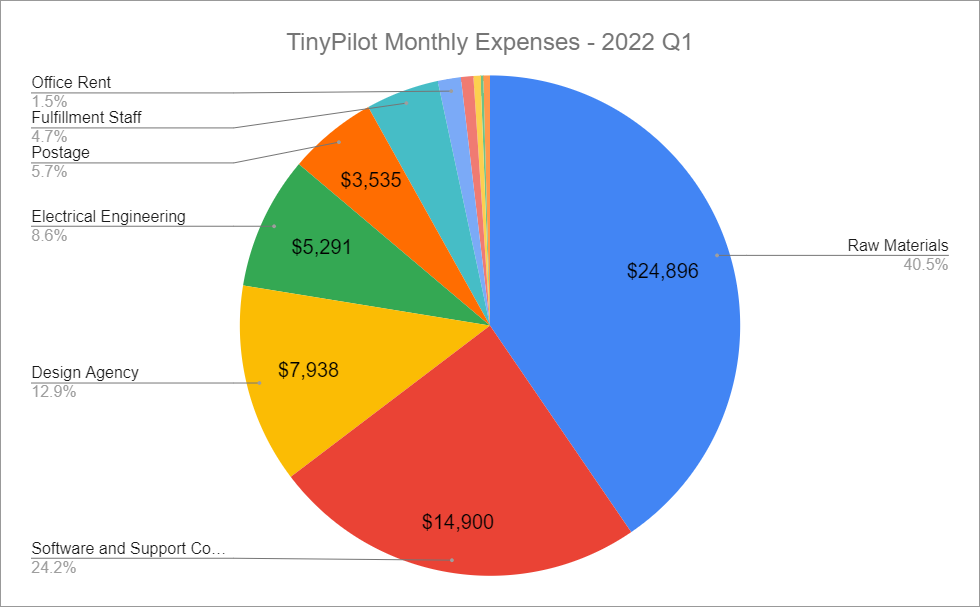
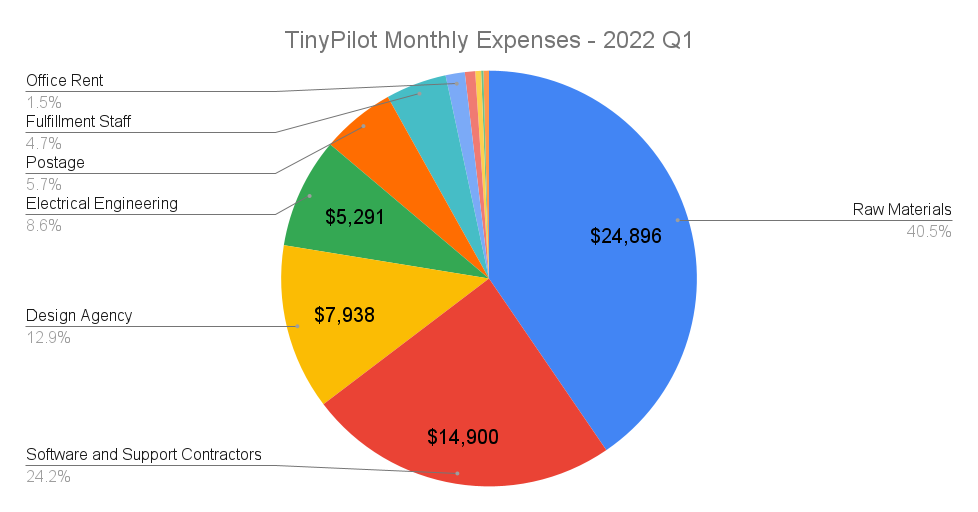
work in progress

diff --git a/content/retrospectives/2022/05/index.md b/content/retrospectives/2022/05/index.md
@@ -1,12 +1,16 @@
 ---
 title: "TinyPilot: Month 22"
 date: 2022-05-09T12:09:29-04:00
-description: TODO - One-line summary
+description: Where is all of my money going?
+images:
+  - /retrospectives/2022/05/expenses-pie.png
 ---
 
 ## Highlights
 
--
+- TinyPilot generates $58k/month in revenue yet somehow still loses money.
+- It's more important than I thought to have low-latency insight into developers' hours.
+- I'm trying paid advertising again for the first time in almost two years.
 
 ## Goal Grades
 
@@ -14,26 +18,26 @@ At the start of each month, I declare what I'd like to accomplish. Here's how I 
 
 ### Publish a blog post and video about building a homelab NAS server with TinyPilot
 
-- **Result**: I'm nearly done but I haven't published yet
+- **Result**: I'm nearly done, but I haven't published yet.
 - **Grade**: D
 
-The blog post is turning out to be much longer than I expected. There are a lot of details about my thought process in choosing parts that I want to include, and I didn't realize how long that would take.
+The blog post is turning out to be much longer than I expected. There are so many details I want to include about my thought process in choosing parts, and I didn't realize how long that would take. I'm hoping to wrap up in the next couple weeks.
 
 ### Complete the TinyPilot website redesign
 
-- **Result**: There were barely any design changes to the website
+- **Result**: There were barely any design changes to the website.
 - **Grade**: F
 
-We've now completed month seven of what was supposed to be a six-week redesign. Once again, there was a one-month delay in implementing any design changes.
+We've now completed month seven of what was supposed to be a six-week redesign. And again, shamefully, we barely made any user-visible changes to the website.
 
 I've canceled the contract with the design agency, so they're wrapping up their work this month. I'm hoping they can complete the redesign in the remaining weeks. If they can't, I'm hiring another developer to finish it up because this has been dragging on forever.
 
-### Publish a release of TinyPilot Pro with opt-in experimental support for H264 video over WebRTC
+### Publish a release of TinyPilot Pro with experimental support for H264 video over WebRTC
 
-- **Result**: Shared an early build with a large customer but haven't cut a public release yet
+- **Result**: Shared an early build with a large customer but haven't cut a public release yet.
 - **Grade**: C
 
-In a month of, "took a little longer than I expected," this also took a bit longer. The release is code complete, but I still have to wrap up some last manual tests before releasing the build to customers.
+The month's theme is, "this took a little longer than I expected." The release is code complete, but I still have to wrap up some last manual tests before publishing the build to customers.
 
 ## [TinyPilot](https://tinypilotkvm.com/?ref=mtlynch.io) stats
 
@@ -51,13 +55,17 @@ In a month of, "took a little longer than I expected," this also took a bit long
 
 \* April profit is just a rough estimate based on the delta in my checking account until I do monthly bookkeeping.
 
+April was a rough month for TinyPilot. Sales dropped to their lowest levels in six months, both in the US and with our EU distributor. Usually about $5-10k in revenue each month comes from a handful of large orders, but we didn't see any of those in April.
+
+It's unclear if April was just an unlucky month, people are spending less due to signals of a recession, or if new offerings from TinyPilot's competitors are eating into sales.
+
 ## Where is all my money going?
 
-In my last retrospective, I reported that I was averaging a profit of $16k in the first quarter of 2022. When I was doing my bookkeeping, I realized that the number was incorrect, and I actually lost $10,153 in the first quarter. The numbers seem surprising to me since I had $XXk/month in revenue, so how can I be spending more than that?
+In my last retrospective, I reported that I was averaging a profit of $5.3k in the first quarter of 2022. When I was doing my bookkeeping, I realized that my blog numbers were out of sync with my bookkeeping, and I was actually _losing_ $3k per month.
 
-In the first quarter, my revenue was $175k. I sell each TinyPilot device for a profit of $250-325, so how can I possibly losing money?
+The numbers surprised me since I had $58k/month in revenue, and I sell each TinyPilot device for a profit of $250-325, so how can I possibly losing money?
 
-Here are my average monthly expenses over the course of 2022 Q1.
+To find out, I took a closer look at my monthly expenses for 2022 Q1.
 
 {{<img src="expenses-pie.png" maxWidth="800px" hasBorder="true">}}
 
@@ -76,67 +84,75 @@ Here are my average monthly expenses over the course of 2022 Q1.
 | Everything Else                  | $265.34        |
 | **Total**                        | **$61,542.47** |
 
-\* My actual rent is $550/month, but rent expenses appeared higher in Q1 just through weird timing of my landlord cashing my rent checks.
+\* My actual rent is $550/month, but rent expenses appeared higher in Q1 because my landlord cashed checks at weird times.
 
-My biggest expense was raw materials, which is even higher than usual because I had to stockpile parts for the next 18-36 months to protect TinyPilot from supply shortages. About $6.2k/month was for parts that will last me a few years, so once I get through stockpiling, monthly costs will be significantly lower.
+My biggest expense was raw materials, which is even higher than usual because I had to stockpile parts for the next 18-36 months to protect TinyPilot from supply shortages. About $6.2k/month was for parts that will last me a few years, so once I get through stockpiling, monthly supply costs will be significantly lower.
 
-The design agency cost almost $8k/month, and that expense is fortunately going away. I've paid them their last check, and my contract with them terminates at the end of May. I might hire a developer to maintain the website, but that would be fewer hours at a lower rate, so more like $1-2k/month.
+The next largest expense was software and support, at $14.9k. That's a little higher than usual because I hired an external consultant on a short-term basis to help us integrate a new video technology. The norm is closer to $12k, which is still quite high.
+
+Charging for [TinyPilot Pro](https://tinypilotkvm.com/product/tinypilot-pro) was supposed to fund development and support costs, but we haven't yet implemented license checks or reminders. About 1/3 of TinyPilot customers have expired TinyPilot Pro licenses and don't realize it, but they continue receiving free support and updates. My top software priority for the next few months is to overhaul TinyPilot's update flow so that only users with paid, active licenses can continue receiving the latest TinyPilot Pro version. I also want to make it easier for people to sign up for recurring billing so that they can just pay $80/year for their license and not deal with re-buying when it expires.
+
+The design agency cost almost $8k/month, but that expense is fortunately going away. I've paid them their last check, and my contract with them terminates at the end of May. I might hire a developer to maintain the website, but that would be fewer hours at a lower rate, so more like $1-2k/month.
 
 Next, we have $5.3k/month in electrical engineering. These costs will stay high for the next 2-3 months as my electrical engineering partner redesigns the TinyPilot Voyager 2 for manufacturability. Once the design work is complete, I expect costs to drop to something like $2k/month, as maintenance will be significantly cheaper than design work.
 
 The expenses break down into three general categories:
 
-- Scale with sales: Raw materials and postage are a pure function of sales.
 - Ongoing costs: Recurring costs like rent and payroll that are independent of sales.
+- Materials and postage: These are almost a pure function of sales, but they should only ever grow about 1/3 as fast as revenue.
 - Temporary expenses: One-time expenses like redesigning hardware or stockpiling components.
 
-I have to make enough profit from sales to cover my ongoing costs with room leftover for temporary expenses for growth. So if I estimate that electrical engineering will go down to $2k per month, my ongoing costs are around $22k per month. If raw materials are about 30% of my revenue, that means that I need to hit $31.5k in sales to keep the lights on ($31.5k in sales translates to $22k in profit, deducting cost of materials).
+I have to make enough profit from sales to cover my ongoing costs with room for growth expenses. If I estimate that software will go down to $12k per month and electrical engineering will go down to $2k, my ongoing costs are around $19k per month. If raw materials are about 30% of my revenue, that means that I need to hit $27k in sales to keep the lights on ($27k in sales translates to $22k in profit, deducting cost of materials).
 
-Hitting $31.5k/month in sales feels pretty doable, as I've been well above that for six months. Still, my sales are trending downward and signs are pointing to a recession, so I'm hoping I can continue clearing the breakeven point with enough room for growth and one-time costs.
+Hitting $27k/month in sales feels pretty doable, as I've been well above that for six months. Still, my sales are trending downward and signs are pointing to a recession, so I'm hoping I can continue clearing the breakeven point with enough room for growth and one-time costs.
 
 ## The importance of low-latency hours reporting
 
-I talked in my last update about the [many things I wish I knew about working with a design agency](/retrospectives/2022/04/#what-i-wish-i-knew-about-working-with-a-design-agency). In April, I realized there was one more thing to add to the list: hours reporting is critical.
+My last update enumerated the [many things I wish I'd known about working with a design agency](/retrospectives/2022/04/#what-i-wish-i-knew-about-working-with-a-design-agency). In April, I discovered one more thing to add to the list: hours reporting is critical.
 
-At the end of March, the agency had a suggestion for the redesign: a new Bootstrap theme. The TinyPilot uses the Bootstrap CSS framework with a free, third-party theme from Bootswatch. They pointed out that we had an unnecessary layer of overrides. Bootstrap sets a default style, our third-party theme was overriding those defaults, and then we were overriding those defaults again. The cleaner solution would be to replace the third-party theme with our own.
+At the end of March, the agency had a suggestion for the redesign: a new Bootstrap theme. The TinyPilot website uses the Bootstrap CSS framework. We're still using the same free, third-party theme I got from [Bootswatch](https://bootswatch.com/) when I created the first version of the site. On top of Bootstrap and a third-party theme, we also have our own custom styles, often on a per-page or per-component basis.
 
-It sounded sensible to me, and the agency estimated that it would only be a few days of work. It would probably pay for itself because otherwise the rest of the redesign would be fighting with two different CSS styles.
+The agency pointed out that this architecture was convoluted, and we should replace the third-party theme and per-page styles with our own site-wide Bootstrap theme. Their recommendation sounded sensible to me, and the agency estimated that it would only be a few days of work. It would probably pay for itself because otherwise the rest of the redesign would be fighting with three different layers of CSS styling.
 
-The theme work ended up taking five weeks for a total cost of $6,152. Here the result in terms of what the user can see:
+The theme work ended up taking five weeks for a total cost of $6,152. Here are the results in terms of what the user can see:
 
 {{<gallery caption="Before (left) and after (right) $6.1k of web development">}}
 {{<img src="before-refactoring.png" alt="Screenshot of TinyPilot website before changes" hasBorder="true" maxWidth="250px">}}
 {{<img src="after-refactoring.png" alt="Screenshot of TinyPilot website after changes, where the font and colors are slightly different" hasBorder="true" maxWidth="250px">}}
 {{</gallery>}}
 
-So, on this redesign that I've been desperate to finish for months, I allowed a five week delay on a change that barely had an impact on the user experience. How did I let this happen?
+Long-term, this refactoring is helpful, but I wouldn't have chosen to do it right now. The redesign is already six months late and 5x over budget. I'd rather have a pretty website while we work on fixing ugly code than a dumpy-looking website with beautifully-factored code.
 
-I was trying to figure out why this situation never arises with TinyPilot's regular devs, but it keeps happening with the design agency. I realized one critical difference is that I have low-latency insight into how TinyPilot's developers spend their time. At the end of their working session, TinyPilot devs record their hours with a short note saying what they were working on.
+So, how did I let this happen? TinyPilot's regular devs rarely get lost in the weeds for weeks on something I didn't want, but it keeps happening with the design agency.
+
+One critical difference is that TinyPilot's developers give me low-latency insight into how they spend their time. At the end of each working session, they record their hours with a short note saying what they were working on.
 
 {{<img src="work-timing.png" alt="Screenshot of TinyPilot website before changes" hasBorder="true" caption="TinyPilot's in-house developers report their hours as they go.">}}
 
-If I'm expecting work from them and I don't see it, I check their hours. If I see that they've spent eight hours on a task that I expected to take two, it means I either underestimated the difficulty or explained the task poorly. In either case, I check in with the dev, and we decide whether to continue or course-correct.
+If I'm expecting work from them, I check their hours. If I see that they've spent 14 hours on a task that I expected to take two, it means I either underestimated the difficulty or explained the task poorly. In either case, I check in with the dev, and we decide whether to continue or course-correct.
 
-With the design agency, there was a much slower feedback loop. They sent me an update on the 15th of the month telling me only the total number of hours they've worked. At the end of the month, they sent me a full report of where the hours went, but by then it's too late.
+With the design agency, there's a much slower feedback loop. They send me an update on the 15th of the month telling me only the total number of hours they've worked. At the end of the month, they send me a full report of where the hours went, but by then it's too late.
 
 {{<gallery caption="The design agency only reports hours twice per month &mdash; once at the midpoint with an opaque hours total (left) and once at the end with a more granular breakdown (right).">}}
 {{<img src="mid-month-report.png" alt="Screenshot of TinyPilot website before changes" hasBorder="true" maxWidth="400px">}}
 {{<img src="monthly-report.png" alt="Screenshot of TinyPilot website after changes, where the font and colors are slightly different" hasBorder="true" maxWidth="500px">}}
 {{</gallery>}}
 
-The other issue with the design agency is that they commit to hours only on a monthly basis, not on a weekly basis. In February, they did no dev work for the first three weeks and then squeezed everything in in the last ten days. This compounded the poor feedback loop, since I couldn't distinguish between a task that was taking a long time and a task that they hadn't started yet.
+The other issue with the design agency is that they commit to hours only on a monthly basis, not on a weekly basis. In February, they did no dev work for the first three weeks and then squeezed all of their work into the last ten days. This compounded the poor feedback loop, since I couldn't distinguish between a task that was taking too long and a task that they hadn't started yet.
 
-If I work with a design agency in the future, I'll insist on using a tool that lets us share a view of the hours billed as they happen. The information is too valuable to hoard for weeks.
+If I work with a design agency in the future, I'll insist on using a tool that lets us share a view of billable hours as they happen. The information is too valuable to delay for weeks, as it prevents me from identifying mismatches in expectations.
 
 ## Dipping my toe in paid search advertising
 
-I [tried paid ads](/retrospectives/2020/11/) early in TinyPilot's life, but I didn't have a good way of measuring their performance. I have a weirdo custom tech stack for my sales site, and it makes it hard to integrate with normal conversion tracking tools on Shopify or Google Analytics. Even when conversion tracking seemed to be working, it was only registering about 30% of sales, so either I messed something up or 70% of my users have ad-block enabled.
+I [tried running paid ads](/retrospectives/2020/11/) early in TinyPilot's life, but I didn't have a good way of measuring their performance. I have a weirdo custom stack for my sales site, and it makes it hard to integrate with normal conversion tracking tools on Shopify or Google Analytics. Even when conversion tracking seemed to be working, it was only registering about 30% of sales, so either I messed something up or 70% of my users have ad-block enabled.
 
-When I experimented with affiliate advertisers, I ended up accidentally solving the conversion tracking problem. When a customer visits through an affiliate link, the TinyPilot stores the referral ID in the browser's local storage. When the customer checks out, we save the referral ID as an attribute of the order. That way, we don't depend on Google Analytics, and we don't have to fight with ad-blockers.
+When I experimented with affiliate advertisers, I ended up accidentally solving the conversion tracking problem. When a customer visits through an affiliate link, the TinyPilot website stores the affiliate ID in the browser's local storage. When the customer checks out, we save the affiliate ID as an attribute of the order. That way, we don't depend on Google Analytics, and we don't have to fight with ad-blockers.
 
-I revisited paid advertising by running ads on Google and Bing. Google ads are performing much better than I expected, and Bing ads are bombing.
+I realized I could use the same solution to track paid ads. I can just treat the referral information in an ad URL as if it were an affiliate ID. With this, I revisited paid advertising by running ads on Google and Bing.
 
 {{<img src="mobile-gs-copy.png" hasBorder="true" alt="Google ad: TinyPilot KVM over IP | Easy Remote Access | Open-Source, PoE, HTML5 TinyPilot is a simple, modern KVM over IP device with PoE. No software installation or Java plugins. Setup takes 5 minutes." caption="My first Google search ad.">}}
+
+Google ads are exceeding my expectations, and Bing ads are bombing.
 
 | Metric                     | Google    | Bing      |
 | -------------------------- | --------- | --------- |
@@ -148,7 +164,7 @@ I revisited paid advertising by running ads on Google and Bing. Google ads are p
 | Revenue from conversions   | $4,202.88 | $789.97   |
 | Revenue on ad spend (ROAS) | 2.45      | 0.78      |
 
-Google is beating Bing on almost every metric. Bing costs twice as much per click, but it generates less than one fifth of the revenue.
+Google is beating Bing on almost every metric. Bing costs twice as much per click, but it generates only a third of the revenue.
 
 The most important metric is revenue on ad spend (ROAS), which is 2.45 on Google. That means for every dollar I spend on Google ads, I'm getting $2.45 in revenue. $2.45 in revenue costs me about $0.76 in parts and labor, so that comes out to $2.45 revenue - $1 ad spend - $0.76 in parts and labor = $0.69 profit.
 
@@ -160,7 +176,7 @@ I've increased my Google budget to $150/day, and I'll keep cranking it up as lon
 
 I'm keeping my Bing budget to $50/day and tuning the ads a bit. Bing was showing my ads for irrelevant queries like "unifi 24 port switch" (a product that serves a completely different function) and "kvms pro" (some kind of CCTV management software).
 
-I originally intended to advertise on [Duck Duck Go](https://duckduckgo.com) because I suspect those users are a good match for my product. Bizarrely, Duck Duck Go only sells ads indirectly through its competitor Bing. To buy Ads on Duck Duck Go, you have to advertise on Bing and then enable advertising through Bing's syndicated partners, which include AOL, Yahoo, and Duck Duck Go.
+I originally intended to advertise on [Duck Duck Go](https://duckduckgo.com) because I suspect their users to be a good match for my product. Bizarrely, Duck Duck Go only sells ads indirectly through Bing, its direct competitor. To buy Ads on Duck Duck Go, you have to advertise on Bing and then enable advertising through Bing's syndicated partners, which include AOL, Yahoo, and Duck Duck Go.
 
 {{<img src="dg-policy.png" hasBorder="true" maxWidth="600px" caption="The only way to [advertise on Duck Duck Go](https://help.duckduckgo.com/duckduckgo-help-pages/company/advertising-and-affiliates/) is to advertise on Bing, Yahoo, and AOL.">}}
 
@@ -170,13 +186,13 @@ I originally intended to advertise on [Duck Duck Go](https://duckduckgo.com) bec
 
 I'm continuing to have fun working on PicoShare, a simple web app I built to make it easier to share large files with people.
 
-One feature I'm excited about is the ability to create guest upload links. Often, especially when working with partners for TinyPilot, I want a way for people to send me a file that's too big for email, but I don't want to force one of us to sign up for a storage service like Google Drive or Dropbox.
+One feature I'm excited about is the ability to create guest upload links. Often, especially when working with partners for TinyPilot, I want a way for people to send me a file that's too big for email, but I don't want to anyone to jump through the hoops of signing up for a cloud storage service like Google Drive or Dropbox.
 
 With PicoShare's guest uploading, I can create a guest link like this:
 
 {{<img src="picoshare-create-guest-link.png" alt="Screenshot of PicoShare's screen for creating a guest link" hasBorder="true" maxWidth="600px">}}
 
-Then, PicoShare generates a custom guest link like `https://picoshare.tinypilotkvm.com/g/sWy2Pi5Dm8afJuxs`. When the guest visits that link, they can upload files to my PicoShare server without signing up or jumping through any hoops:
+Then, PicoShare generates a custom guest link like `https://picoshare.tinypilotkvm.com/g/sWy2Pi5Dm8afJuxs`. When the guest visits that link, they can upload files to my PicoShare server with zero signups:
 
 {{<img src="picoshare-guest-upload.png" alt="Screenshot of PicoShare's screen for uploading through a guest link" hasBorder="true" maxWidth="600px">}}
 
@@ -193,7 +209,9 @@ The other feature I added was support for private notes that you can attach to y
 
 ### What got done?
 
-- Started to see promising results from paid search advertising
+- I've started to see promising results from paid search advertising.
+- TinyPilot Pro reached code complete for its 2.4.1 release with support for H264 video.
+- TinyPilot [contributed documentation](https://github.com/pikvm/ustreamer/pull/150) to uStreamer explaining how to stream H264 video over WebRTC.
 
 ### Lessons learned
 
@@ -202,4 +220,6 @@ The other feature I added was support for private notes that you can attach to y
 
 ### Goals for next month
 
--
+- Publish a blog post and video about building a homelab NAS server with TinyPilot
+- Complete the TinyPilot website redesign
+- Hire a marketing agency or freelancer
